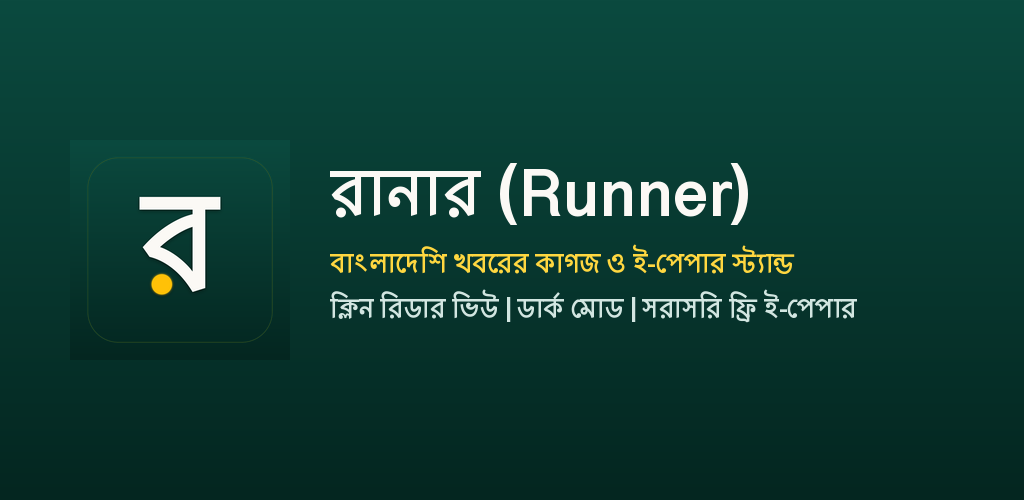
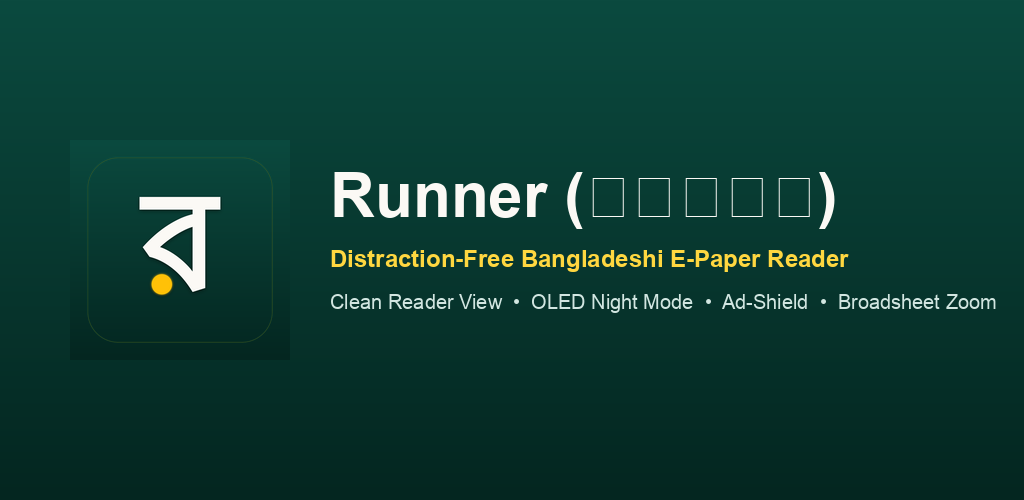
docs: overhaul README in English with high-star style, feature matrix, and direct APK download links

Changed region(s): [[0.3125, 0.48, 0.9688, 0.66], [0.3125, 0.33, 0.75, 0.45], [0.7812, 0.33, 0.8125, 0.45]]

diff --git a/README.md b/README.md
@@ -1,78 +1,167 @@
-# রানার (Runner) — সকালের খবরের কাগজ ও বাংলাদেশি ই-পেপার স্ট্যান্ড
+# Runner (রানার) — Distraction-Free Bangladeshi E-Paper Reader
 
 <p align="center">
-  <img src="assets/banner.png" alt="রানার (Runner) Banner" width="100%" />
+  <img src="assets/banner.png" alt="Runner E-Paper Banner" width="100%" />
 </p>
 
 <p align="center">
-  <img src="https://img.shields.io/badge/Flutter-3.x-02569B?logo=flutter" alt="Flutter" />
-  <img src="https://img.shields.io/badge/Platform-Android%20%7C%20iOS-green" alt="Platforms" />
-  <img src="https://img.shields.io/badge/Ad--Block-Built--in-amber" alt="Ad Block" />
-  <img src="https://img.shields.io/badge/License-MIT-blue" alt="License" />
+  <a href="https://github.com/ibrahimhasan0012/runner-epaper/releases/latest"><img src="https://img.shields.io/github/v/release/ibrahimhasan0012/runner-epaper?style=flat-square&color=004D40&label=Release" alt="Latest Release" /></a>
+  <img src="https://img.shields.io/badge/Flutter-3.x-02569B?style=flat-square&logo=flutter" alt="Flutter" />
+  <img src="https://img.shields.io/badge/Platforms-Android%20%7C%20iOS-2E7D32?style=flat-square" alt="Platforms" />
+  <img src="https://img.shields.io/badge/Target%20SDK-35%20%2F%2036-blue?style=flat-square" alt="Android SDK" />
+  <img src="https://img.shields.io/badge/Ad--Shield-Built--in-amber?style=flat-square" alt="Ad-Shield" />
+  <a href="LICENSE"><img src="https://img.shields.io/badge/License-MIT-black?style=flat-square" alt="License" /></a>
+  <img src="https://img.shields.io/badge/PRs-Welcome-brightgreen?style=flat-square" alt="PRs Welcome" />
 </p>
 
-> **"রানার চলেছে খবরের বোঝা হাতে, রানার চলেছে রানার..."**  
-> *— সুকান্ত ভট্টাচার্য*
+<p align="center">
+  <strong>An open-source, privacy-respecting client for browsing official physical print editions (E-Papers) of Bangladesh's leading newspapers without clutter, popups, or paywalls.</strong>
+</p>
 
-**রানার (Runner)** হলো বাংলাদেশের শীর্ষ দৈনিক সংবাদপত্রসমূহের মূল ছাপা সংস্করণের ই-পেপার (E-Paper) পড়ার জন্য একটি আধুনিক, পরিচ্ছন্ন, দ্রুত ও বিজ্ঞাপন-মুক্ত ওপেন-সোর্স মোবাইল অ্যাপ্লিকেশন। কোনো ফাইল ডাউনলোড বা জটিলতা ছাড়াই সরাসরি ব্রডশিট পত্রিকা পড়ার জন্য এটি বিশেষভাবে তৈরি।
-
----
-
-## 🌟 মূল বৈশিষ্ট্যসমূহ (Key Features)
-
-- 📰 **শীর্ষ জাতীয় ও ইংরেজি দৈনিক**: যুগান্তর, কালের কণ্ঠ, সমকাল, ইত্তেফাক, বাংলাদেশ প্রতিদিন, প্রথম আলো, নয়া দিগন্ত, ইনকিলাব, আজকের পত্রিকা, দেশ রূপান্তর, জনকণ্ঠ, The Daily Star এবং The Business Standard।
-- 🛡 **ইনটেলিজেন্ট অ্যাড-ব্লকার**: ট্র্যাকার, পপ-আপ, ভিডিও ওভারলে এবং বিরক্তিকর ভাসমান বিজ্ঞাপন স্বয়ংক্রিয়ভাবে ব্লক করে।
-- 🌙 **নাইট রিডিং মোড (Night Mode)**: রাতের বেলা পড়ার জন্য স্মার্ট কালার ইনভার্সন—ছবি ও গ্রাফিক্স স্বাভাবিক রেখে সাদা পাতাকে আরামদায়ক ডার্ক থিমে রূপান্তর করে।
-- 🔍 **স্মার্ট জুম ও ব্রডশিট ভিউ**: সূক্ষ্ম ফন্টের খবর সহজে পড়ার জন্য ডেডিকেটেড ফ্লোটিং জুম কন্ট্রোল (`+`, `1x`, `-`) এবং পূর্ণাঙ্গ স্ক্রিন ভিউ।
-- 📅 **আর্কাইভ ও পুরোনো সংখ্যা**: ক্যালেন্ডার থেকে যেকোনো তারিখ বেছে নিয়ে যেকোনো দিনের পুরোনো পত্রিকা সরাসরি পড়ার সুবিধা।
-- 🎨 **আভিজাত্যময় বাংলা টাইপোগ্রাফি**: Google Fonts (`Hind Siliguri`) সমৃদ্ধ ডুয়েল থিম ইঞ্জিন (Warm Newsprint Light এবং OLED Midnight Dark)।
-- 💾 **অফলাইন প্রেফারেন্স**: `shared_preferences` ব্যবহার করে পছন্দের তালিকা (Favorites), থিম ও সর্বশেষ পঠিত পত্রিকা স্বয়ংক্রিয়ভাবে ডিভাইসে সংরক্ষিত থাকে।
-- 🚀 **নেটিভ শেয়ারিং**: Android / iOS এর নেটিভ শেয়ার শিটের মাধ্যমে এক ক্লিকেই পছন্দের পত্রিকা শেয়ারিং।
+<p align="center">
+  <a href="#-downloads">Download APK</a> •
+  <a href="#-features">Key Features</a> •
+  <a href="#-supported-newspapers">Supported Newspapers</a> •
+  <a href="#-building-from-source">Building from Source</a> •
+  <a href="#-privacy--security">Privacy Policy</a>
+</p>
 
 ---
 
-## 📱 ইনস্টলেশন ও সরাসরি ডাউনলোড (Direct APK Download)
+## 📖 Overview
 
-Google Play Store-এর সাবস্ক্রিপশন ফি ছাড়াই আপনি সরাসরি এই রিপোজিটরি থেকে সর্বশেষ প্রস্তুতকৃত রিলিজ APK ডাউনলোড করে ফোনে ইনস্টল করতে পারবেন:
+In Bangladesh, physical newspapers publish daily digital broadsheet replicas ("E-Papers"). However, reading them on mobile browsers is frequently hindered by aggressive overlay popups, intrusive trackers, and rigid desktop viewports.
 
-| সংস্করণ | ফাইল সাইজ | ডাউনলোড লিংক | বিবরণ |
-| :--- | :--- | :--- | :--- |
-| **Universal Release APK** | ~52 MB | [Releases](https://github.com/ibrahimhasan0012/runner-epaper/releases) | সব ধরনের অ্যান্ড্রয়েড ফোনের জন্য উপযুক্ত |
-| **ARM64-v8a Release APK** | ~20 MB | [Releases](https://github.com/ibrahimhasan0012/runner-epaper/releases) | আধুনিক Pixel ও 64-bit ডিভাইসের জন্য দ্রুত ও হালকা |
+**Runner (রানার)**—named in homage to Sukanta Bhattacharya's iconic poem celebrating the tireless courier of morning news—provides a polished, distraction-free reading stand. It strips away interstitial clutter, provides ergonomic zooming, offers a night reading filter, and preserves your reading history natively on your device.
 
 ---
 
-## 🛠 রান ও বিল্ড করার নিয়মাবলী (Build Instructions)
+## ✨ Features
 
-### পূর্বশর্ত
-- [Flutter SDK](https://flutter.dev/docs/get-started/install) (3.2.0+)
-- Android SDK (API 35/36)
+- 🛡 **Intelligent Ad-Shield Engine**: Blocks third-party ad networks (`doubleclick`, `googlesyndication`, `taboola`, `eskimi`, `purplepatch`, etc.) at the navigation layer while injecting mutation observers to clear sticky video overlays and banners.
+- 🌙 **Smart Night Reading Mode**: Intelligent CSS filter that inverts white broadsheet canvas backgrounds into dark parchment while preserving the original natural colors of photographs and graphics.
+- 🔍 **Broadsheet Zoom & Fit Controls**: Dedicated floating zoom dock (`+`, `1x`, `-`) enabling effortless reading of fine print columns without pinch jitter.
+- 📅 **Edition Archive Picker**: Calendar date-picker to easily jump back to previous dates and read historical editions.
+- 🎨 **Dual Editorial Design System**:
+  - **Warm Newsprint (Light Mode)**: Inspired by physical parchment (`#F9F7F2`) with deep forest emerald accents (`#004D40`).
+  - **OLED Midnight (Dark Mode)**: True dark background (`#121212`) paired with refined Bangla typography ([Google Fonts *Hind Siliguri*](https://fonts.google.com/specimen/Hind+Siliguri)).
+- 📱 **Broadsheet vs. Mobile Viewport Switch**: Dynamically toggles between desktop user-agent broadsheets and responsive mobile layouts.
+- 💾 **100% Local Persistence**: Favorites, last-read papers, and theme choices are stored on-device using native `SharedPreferences`.
+- 🚀 **Native Sharing**: One-tap native system share sheet via `share_plus` to send article links directly via WhatsApp, Messenger, or Twitter.
 
-### সোর্স কোড থেকে বিল্ড:
+---
+
+## 📥 Downloads
+
+Ready-to-install release binaries are signed with a production keystore (supporting APK Signature Scheme v2/v3, targetSdk 35, and Android 15/16/17 compatibility):
+
+| Variant | Architecture | Size | Download | Compatibility |
+| :--- | :--- | :--- | :--- | :--- |
+| **Universal Release APK** | All ABIs (Fat APK) | ~52 MB | [**Download APK**](https://github.com/ibrahimhasan0012/runner-epaper/releases/download/v1.0.0/Runner-release.apk) | Recommended for all Android devices |
+| **ARM64-v8a Release APK** | 64-bit ARM | ~20 MB | [**Download APK**](https://github.com/ibrahimhasan0012/runner-epaper/releases/download/v1.0.0/Runner-arm64.apk) | Optimized for modern phones & Pixel |
+
+> **Note**: For sideloading on Android 14+, simply allow installation from your file manager or browser.
+
+---
+
+## 📰 Supported Newspapers
+
+Runner provides direct indexed access to official broadsheet portals across major national categories:
+
+### Top National Dailies
+- **যুগান্তর (Daily Jugantor)** — Complete daily broadsheet, no login required.
+- **কালের কণ্ঠ (Kaler Kantho)** — Direct full print edition.
+- **সমকাল (Daily Samakal)** — Full physical broadsheet replica.
+- **দৈনিক ইত্তেফাক (The Daily Ittefaq)** — Historic national publication.
+- **বাংলাদেশ প্রতিদিন (Bangladesh Pratidin)** — Highest circulation daily print edition.
+- **দৈনিক নয়া দিগন্ত (Daily Naya Diganta)** — Direct daily broadsheet.
+- **দৈনিক ইনকিলাব (Daily Inqilab)** — Full broadsheet access.
+- **প্রথম আলো (Prothom Alo)** — Official e-paper reader (free daily account support).
+- **আজকের পত্রিকা (Ajker Patrika)** — Regional and national coverage.
+- **দেশ রূপান্তর (Desh Rupantor)** — Complete daily edition.
+- **দৈনিক জনকণ্ঠ (Daily Janakantha)** — National daily broadsheet.
+- **যায়যায়দিন (Daily Jaijaidin)** — Full print edition.
+- **ভোরের কাগজ (Bhorer Kagoj)** — Free broadsheet edition.
+
+### English Dailies
+- **The Daily Star** — Bangladesh's premier English-language broadsheet.
+- **The Business Standard (TBS)** — In-depth business, economy, and financial analysis.
+
+### Business & Economy
+- **বণিক বার্তা (Bonik Barta)** — Bangladesh's leading business and commerce publication.
+
+---
+
+## 🏗 Architecture & Tech Stack
+
+```text
+lib/
+├── data/
+│   └── newspapers_data.dart        # Curated catalog of verified e-paper portals
+├── models/
+│   └── newspaper.dart              # Newspaper domain entity & access models
+├── screens/
+│   ├── home_screen.dart            # Animated newsstand grid with live Bangla date
+│   └── epaper_reader_screen.dart   # Broadsheet webview reader with zoom & night filter
+├── services/
+│   ├── ad_blocker_service.dart     # JS/CSS clean-reader & domain filtering engine
+│   └── storage_and_share_service.dart # SharedPreferences & native share integration
+└── main.dart                       # App initialization & dynamic theme switcher
+```
+
+- **Framework**: [Flutter](https://flutter.dev) (Dart 3.x)
+- **Web Rendering**: [`webview_flutter`](https://pub.dev/packages/webview_flutter)
+- **Animations**: [`flutter_animate`](https://pub.dev/packages/flutter_animate)
+- **Typography**: [`google_fonts`](https://pub.dev/packages/google_fonts) (*Hind Siliguri*)
+- **Local Persistence**: [`shared_preferences`](https://pub.dev/packages/shared_preferences)
+- **Native Sharing**: [`share_plus`](https://pub.dev/packages/share_plus)
+- **Play Core Support**: `com.google.android.play:integrity:1.4.0`
+
+---
+
+## 🚀 Building from Source
+
+### Prerequisites
+- [Flutter SDK](https://docs.flutter.dev/get-started/install) (version 3.2.0 or higher)
+- Android SDK with platform tools (API 35/36)
+- Java 17+
+
+### Steps
 ```bash
-# ১. রিপোজিটরি ক্লোন করুন
+# 1. Clone the repository
 git clone https://github.com/ibrahimhasan0012/runner-epaper.git
 cd runner-epaper
 
-# ২. ডিপেন্ডেন্সি প্যাকেজ ডাউনলোড করুন
+# 2. Install dependencies
 flutter pub get
 
-# ৩. অ্যাপটি ফোনে বা এমুলেটরে রান করুন
+# 3. Run the app in debug mode
 flutter run
 
-# ৪. সরাসরি ইউনিভার্সাল রিলিজ APK তৈরি করুন
+# 4. Build a signed Universal Release APK
 flutter build apk --release
 
-# ৫. অ্যাপ বান্ডেল (.aab) তৈরি করুন
+# 5. Build an Android App Bundle (.aab)
 flutter build appbundle --release
 ```
 
 ---
 
-## 🔒 প্রাইভেসি পলিসি (Privacy & Data Safety)
-রানার (Runner) একটি সম্পূর্ণ প্রাইভেসি-ফার্স্ট অ্যাপ। কোনো ধরনের ইউজার ডেটা, ফোন নম্বর বা তথ্য ক্লাউডে সংগ্রহ বা বিক্রি করা হয় না। সমস্ত বুকমার্ক এবং থিম সেটিং কেবল ব্যবহারকারীর ফোনেই সংরক্ষিত থাকে।
+## 🔐 Privacy & Security
+
+Runner is built on strict privacy-first principles:
+- **Zero Telemetry**: We do not collect, store, or transmit any user data, identifiers, or analytics.
+- **Local-Only Preferences**: Bookmarked favorites, last-read papers, and theme choices never leave your device.
+- **Direct Web Access**: Connections to e-paper portals occur directly between your device and the respective official publisher websites.
 
 ---
 
-## 📄 লাইসেন্স
-এই প্রকল্পটি [MIT License](LICENSE)-এর অধীনে উন্মুক্ত।
+## ⚖ Legal Disclaimer
+
+*Runner is an independent, open-source reader client that indexes publicly accessible web portals operated by newspaper publishers. All trademarks, mastheads, logos, and newspaper contents belong entirely to their respective copyright holders. Runner does not host, reproduce, relicense, or redistribute any copyrighted news publications.*
+
+---
+
+## 📄 License
+
+This project is open-source software licensed under the **[MIT License](LICENSE)**.
